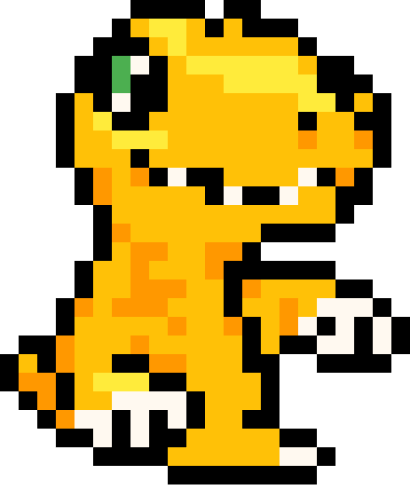
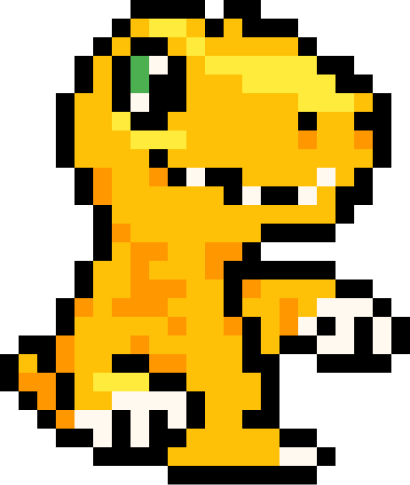
Fixing character movement by modifying the sprites

diff --git a/public/scripts/gameLogic.js b/public/scripts/gameLogic.js
@@ -30,4 +30,4 @@ spriteAnimation(document.querySelector(".player"), spriteArr);
 spriteAnimation(document.querySelector(".player"), spriteArr);
 spriteAnimation(document.querySelector(".player"), spriteArr);
 
-const test = setInterval(spriteAnimation.bind(this,document.querySelector(".player"), spriteArr),50)
+const test = setInterval(spriteAnimation.bind(this,document.querySelector(".player"), spriteArr),500)

diff --git a/public/styles/singleplayer.css b/public/styles/singleplayer.css
@@ -27,7 +27,7 @@ body {
   position: absolute;
   bottom: 0px;
   left: 0px;
-  animation: moveFloor 3s linear infinite;
+  animation: moveFloor 15s linear infinite;
 }
 
 @keyframes moveFloor {
@@ -84,7 +84,7 @@ body {
   position: absolute;
   top: 15vmin;
   right: 10vmin;
-  animation: moveClouds 3s linear infinite;
+  animation: moveClouds 15s linear infinite;
 }
 
 .clouds::after {
